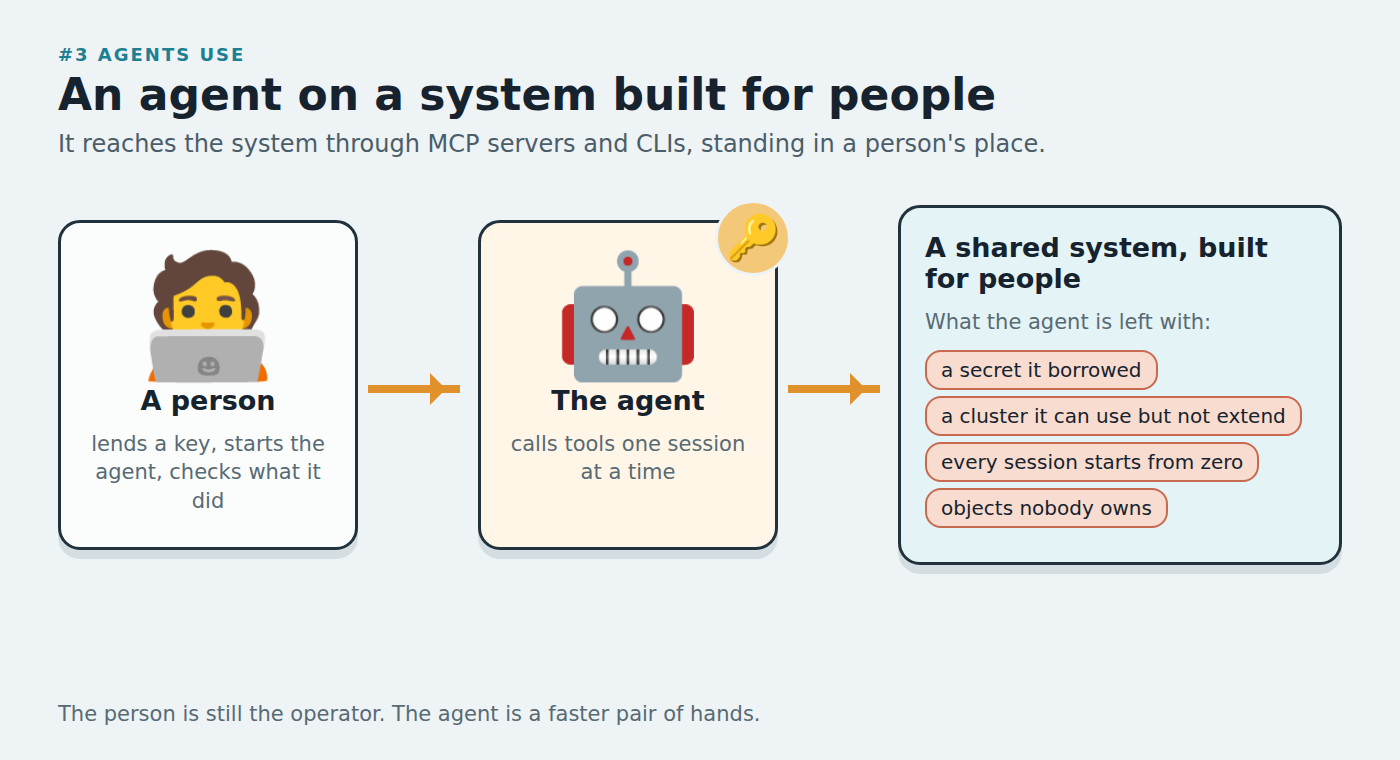
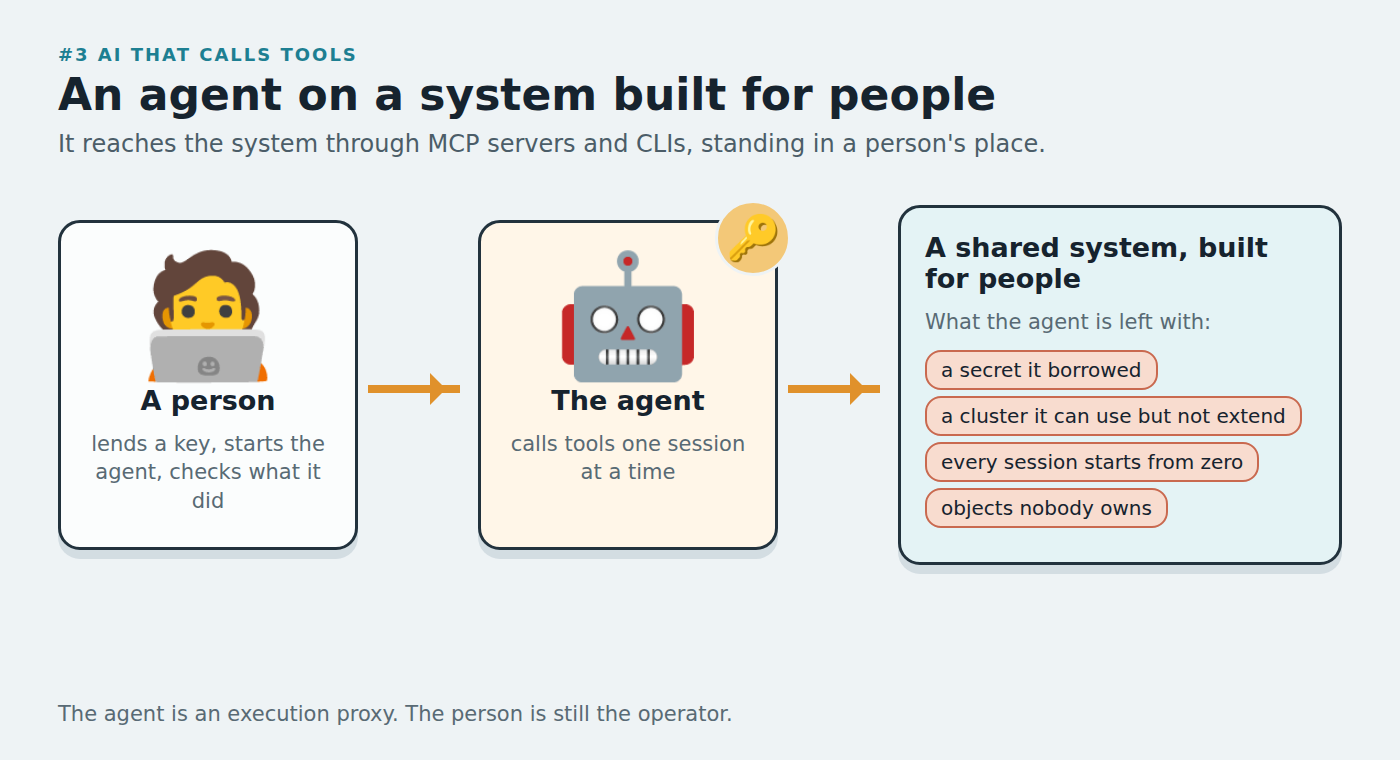
docs(blog): follow the video's journey in the ai operators post
Piotr: still too long, and it should follow the journey the talk and video use. The steps now match the video's chapters (a developer's own cluster, a developer using AI, AI that calls tools, an agent's own cluster) in place of the people, controllers, agents arc, and the closing argument uses the video's built for people, adapted for AI, built for AI line. The video is embedded with ReactPlayer like the ast-grep and multiline posts. Prose drops from about 2,100 to about 1,250 words: the five design subsections fold into one paragraph beside their panel, and what stays with people becomes one paragraph. Panels 1 and 2 are redrawn for the new steps; 3 and 4 take the video's chapter names. Rendered headless at 1400px and 390px: seven images and the player load, no page errors, no sideways scroll. Follows 745a9b6.

Changed region(s): [[0.0614, 0.9079, 0.5529, 0.9684], [0.0614, 0.0605, 0.2764, 0.0908]]

diff --git a/blog/_media/diagrams/panels/ai-operators-wave-2.html b/blog/_media/diagrams/panels/ai-operators-wave-2.html
@@ -1,35 +1,38 @@
 <!doctype html><html><head><meta charset="utf-8"><link rel="stylesheet" href="ai-operators-panel.css"><style>
 html, body { height: 760px; }
-.loop { position: absolute; left: 470px; top: 205px; width: 400px; height: 380px; border-radius: 50%; border: 6px solid #1d8fa3; background: #e4f3f5; }
-.step { position: absolute; font-size: 22px; font-weight: 700; color: #1d5f6e; background: #eef3f5; padding: 2px 10px; border-radius: 10px; }
+.node { position: absolute; width: 230px; text-align: center; }
+.node .mid { font-size: 70px; }
+.node b { display: block; font-size: 24px; margin-top: 4px; }
+.node .note { margin-top: 4px; }
+.curve { position: absolute; height: 8px; background: #e0912b; }
+.curve::after { content: ''; position: absolute; right: -2px; top: -12px; border: 16px solid transparent; border-left-color: #e0912b; }
+.curve.back { background: #1d8fa3; }
+.curve.back::after { right: auto; left: -2px; border-left-color: transparent; border-right-color: #1d8fa3; }
+.vline { position: absolute; width: 8px; background: #e0912b; }
+.vline::after { content: ''; position: absolute; left: -12px; bottom: -2px; border: 16px solid transparent; border-top-color: #e0912b; }
+.vline.up { background: #1d8fa3; }
+.vline.up::after { bottom: auto; top: -2px; border-top-color: transparent; border-bottom-color: #1d8fa3; }
+.cmd { font: 18px 'DejaVu Sans Mono', monospace; background: #16232e; color: #e8f1f3; border-radius: 10px; padding: 10px 12px; margin-top: 12px; line-height: 1.35; }
 </style></head><body data-h="760"><main class="scene">
-<div class="eyebrow">#2 Code operates</div>
-<h1 class="title">A controller follows the procedure</h1>
-<div class="sub">The desired state and the steps to reach it are written ahead of time.</div>
+<div class="eyebrow">#2 A developer using AI</div>
+<h1 class="title">The person is the loop</h1>
+<div class="sub">The model answers. I copy, run and paste back every step.</div>
 
-<section class="card" style="left:58px;top:240px;width:300px;height:300px">
-  <div class="mid center">📄</div>
-  <h2 class="center">Spec</h2>
-  <div class="note center">the desired state, plus the cases its author thought of</div>
+<section class="card" style="left:58px;top:200px;width:840px;height:420px"></section>
+<div class="node" style="left:90px;top:250px"><div class="mid">🧑💻</div><b>I ask</b><div class="note">"how do I list everything running?"</div></div>
+<div class="curve" style="left:320px;top:300px;width:150px"></div>
+<div class="node" style="left:480px;top:250px"><div class="mid">💬</div><b>A model answers</b><div class="note">with a command, as text</div></div>
+<div class="curve back" style="left:320px;top:500px;width:150px"></div>
+<div class="node" style="left:90px;top:445px"><div class="mid">📋</div><b>I paste the result back</b></div>
+<div class="node" style="left:480px;top:445px"><div class="mid">⌨</div><b>I copy and run it</b></div>
+<div class="vline" style="left:745px;top:300px;height:190px"></div>
+<div class="vline up" style="left:72px;top:330px;height:170px"></div>
+<div class="pill warn" style="left:300px;top:640px">The model never touches the cluster</div>
+
+<section class="card agent" style="left:930px;top:200px;width:412px;height:420px">
+  <div class="mid center">⚖</div>
+  <h2 class="center">A decision model</h2>
+  <div class="note center">answers one question about a text: yes or no, and how sure it is</div>
+  <div class="cmd">kubectl get pods -A | classif<br>"Are all pods Running?"<br>→ yes 0.99</div>
 </section>
-<div class="arrow cyan" style="left:368px;top:390px;width:92px"></div>
-
-<div class="loop"></div>
-<div class="big" style="position:absolute;left:600px;top:300px">⚙</div>
-<div class="step" style="left:610px;top:190px">observe</div>
-<div class="step" style="left:830px;top:380px">compare</div>
-<div class="step" style="left:620px;top:568px">change</div>
-
-<div class="arrow" style="left:892px;top:300px;width:110px"></div>
-<section class="card" style="left:1020px;top:200px;width:320px;height:175px">
-  <div class="row"><span class="ico">✅</span><b>A known case</b></div>
-  <div class="note">fixed by the coded procedure</div>
-</section>
-<div class="arrow" style="left:892px;top:470px;width:110px;background:#c9694f"></div>
-<section class="card" style="left:1020px;top:405px;width:320px;height:190px">
-  <div class="row"><span class="ico">❓</span><b>A new case</b></div>
-  <div class="note">retry, log, wait, then page a person <span class="ico" style="font-size:24px">📟🧑🔧</span></div>
-</section>
-
-<div class="footer">Code took the procedures. Judgment stayed with people.</div>
 </main></body></html>

diff --git a/blog/_media/diagrams/panels/ai-operators-wave-1.html b/blog/_media/diagrams/panels/ai-operators-wave-1.html
@@ -1,32 +1,34 @@
 <!doctype html><html><head><meta charset="utf-8"><link rel="stylesheet" href="ai-operators-panel.css"><style>
-html, body { height: 760px; }
-</style></head><body data-h="760"><main class="scene">
-<div class="eyebrow">#1 People operate</div>
-<h1 class="title">A system built for people</h1>
-<div class="sub">Every interface assumes a person is reading it.</div>
+html, body { height: 740px; }
+.cmd { font: 19px 'DejaVu Sans Mono', monospace; background: #16232e; color: #e8f1f3; border-radius: 10px; padding: 12px 14px; margin-top: 14px; line-height: 1.35; }
+.vc { position: absolute; width: 150px; height: 120px; border: 3px solid #22323d; border-radius: 16px; background: #fbfdfd; text-align: center; padding-top: 10px; font-size: 18px; }
+.vc.mine { background: #fff6e8; border-color: #e0912b; border-width: 4px; }
+.vc .ico { display: block; width: auto; font-size: 40px; margin-bottom: 4px; }
+</style></head><body data-h="740"><main class="scene">
+<div class="eyebrow">#1 A developer's own cluster</div>
+<h1 class="title">One command, a cluster of my own</h1>
+<div class="sub">Self-service at its best: ask the platform, get a system, break it if you like.</div>
 
-<section class="card" style="left:58px;top:215px;width:300px;height:340px">
-  <div class="big">🧑💻</div>
+<section class="card" style="left:58px;top:215px;width:340px;height:350px">
+  <div class="mid center">🧑💻</div>
   <h2 class="center">Developer</h2>
-  <div class="note center">asks through a portal, a form or a ticket</div>
+  <div class="cmd">vcluster platform \<br>&nbsp;&nbsp;create vcluster \<br>&nbsp;&nbsp;my-cluster</div>
 </section>
-<div class="arrow" style="left:368px;top:380px;width:95px"></div>
+<div class="arrow" style="left:408px;top:385px;width:80px"></div>
 
-<section class="card platform" style="left:480px;top:200px;width:420px;height:370px">
-  <h2>The platform</h2>
-  <div class="row"><span class="ico">🖱</span>A UI for every action</div>
-  <div class="row"><span class="ico">📊</span>Dashboards to watch</div>
-  <div class="row"><span class="ico">📖</span>Runbooks to follow</div>
-  <div class="row"><span class="ico">🧠</span>Context in people's heads</div>
+<section class="card platform" style="left:505px;top:200px;width:520px;height:380px">
+  <h2>Host cluster</h2>
+  <div class="note">each virtual cluster is a control plane running in a pod</div>
 </section>
-<div class="arrow cyan" style="left:910px;top:380px;width:95px"></div>
+<div class="vc mine" style="left:540px;top:345px"><span class="ico">🧑💻</span>my cluster<br><b>admin</b></div>
+<div class="vc" style="left:695px;top:345px"><span class="ico">🧑🎨</span>team A</div>
+<div class="vc" style="left:850px;top:345px"><span class="ico">🧑🔬</span>team B</div>
 
-<section class="card" style="left:1022px;top:215px;width:320px;height:340px">
-  <div class="big">🧑🔧</div>
-  <h2 class="center">On call <span class="ico" style="font-size:28px">📟</span></h2>
-  <div class="note center">a person reads the alert and decides what to do</div>
+<section class="card" style="left:1045px;top:215px;width:297px;height:350px">
+  <div class="mid center">🛡</div>
+  <h2 class="center">Safe to hand out</h2>
+  <div class="note center">admin inside a virtual cluster cannot touch the host or the other tenants</div>
 </section>
 
-<div class="pill info" style="left:480px;top:600px">Self-service made asking faster</div>
-<div class="footer">Keeping the system running stayed a person's job.</div>
+<div class="footer">Getting a system became easy. Keeping it running is still my job.</div>
 </main></body></html>

diff --git a/blog/_media/diagrams/panels/ai-operators-wave-3.html b/blog/_media/diagrams/panels/ai-operators-wave-3.html
@@ -2,7 +2,7 @@
 html, body { height: 760px; }
 .keybadge { position: absolute; font-family: 'Noto Color Emoji'; font-size: 44px; background: #f3c878; border: 3px solid #eef3f5; border-radius: 50%; width: 76px; height: 76px; display: grid; place-items: center; }
 </style></head><body data-h="760"><main class="scene">
-<div class="eyebrow">#3 Agents use</div>
+<div class="eyebrow">#3 AI that calls tools</div>
 <h1 class="title">An agent on a system built for people</h1>
 <div class="sub">It reaches the system through MCP servers and CLIs, standing in a person's place.</div>
 
@@ -30,5 +30,5 @@ html, body { height: 760px; }
   <span class="tag">objects nobody owns</span>
 </section>
 
-<div class="footer">The person is still the operator. The agent is a faster pair of hands.</div>
+<div class="footer">The agent is an execution proxy. The person is still the operator.</div>
 </main></body></html>

diff --git a/blog/_media/diagrams/panels/ai-operators-wave-4.html b/blog/_media/diagrams/panels/ai-operators-wave-4.html
@@ -3,7 +3,7 @@ html, body { height: 780px; }
 .step { position: absolute; font-size: 22px; font-weight: 700; color: #8a5312; background: #fff6e8; padding: 2px 10px; border-radius: 10px; }
 .ring { position: absolute; left: 600px; top: 250px; width: 300px; height: 300px; border-radius: 50%; border: 6px solid #e0912b; }
 </style></head><body data-h="780"><main class="scene">
-<div class="eyebrow">#4 Agents operate</div>
+<div class="eyebrow">#4 An agent's own cluster</div>
 <h1 class="title">An AI operator with a goal and a fence</h1>
 <div class="sub">Freedom inside a system of its own. The fence belongs to the platform.</div>
 
